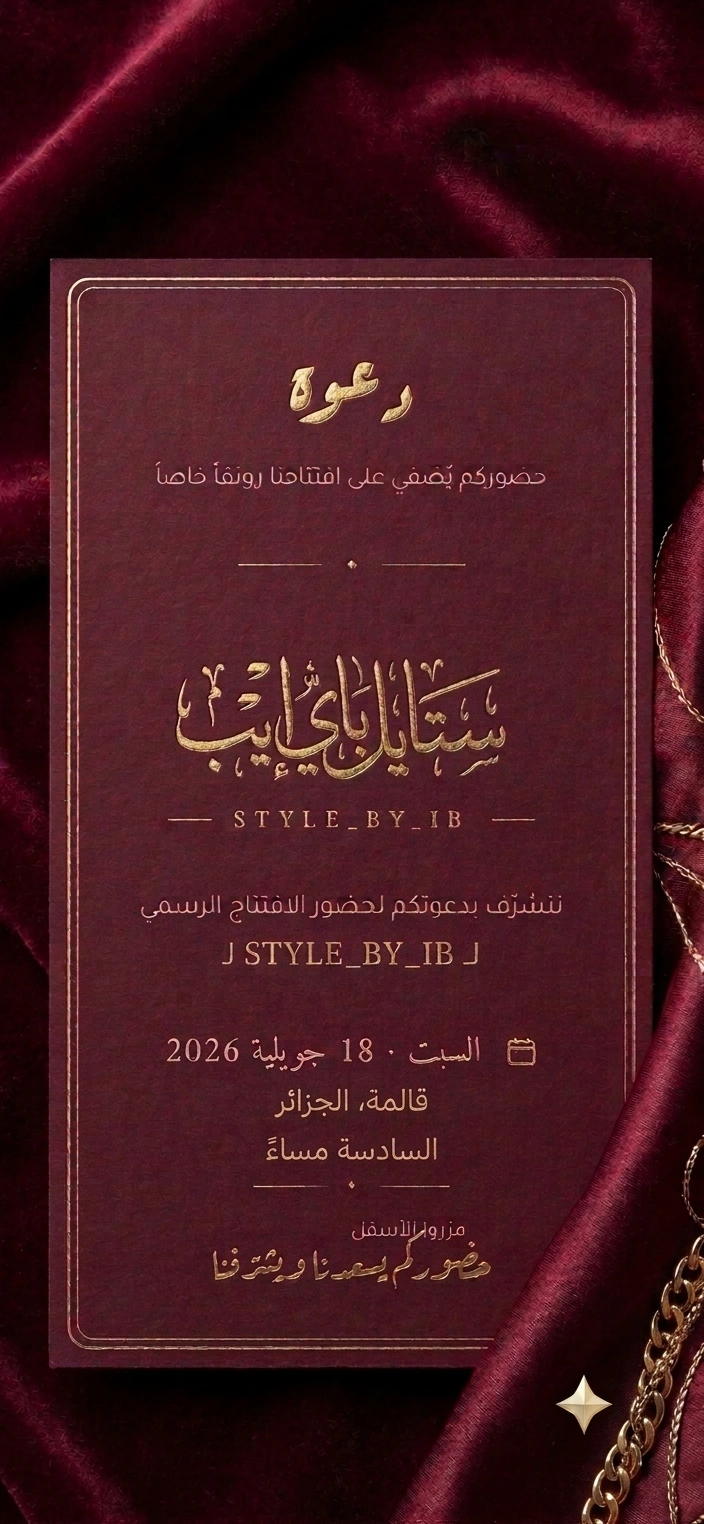
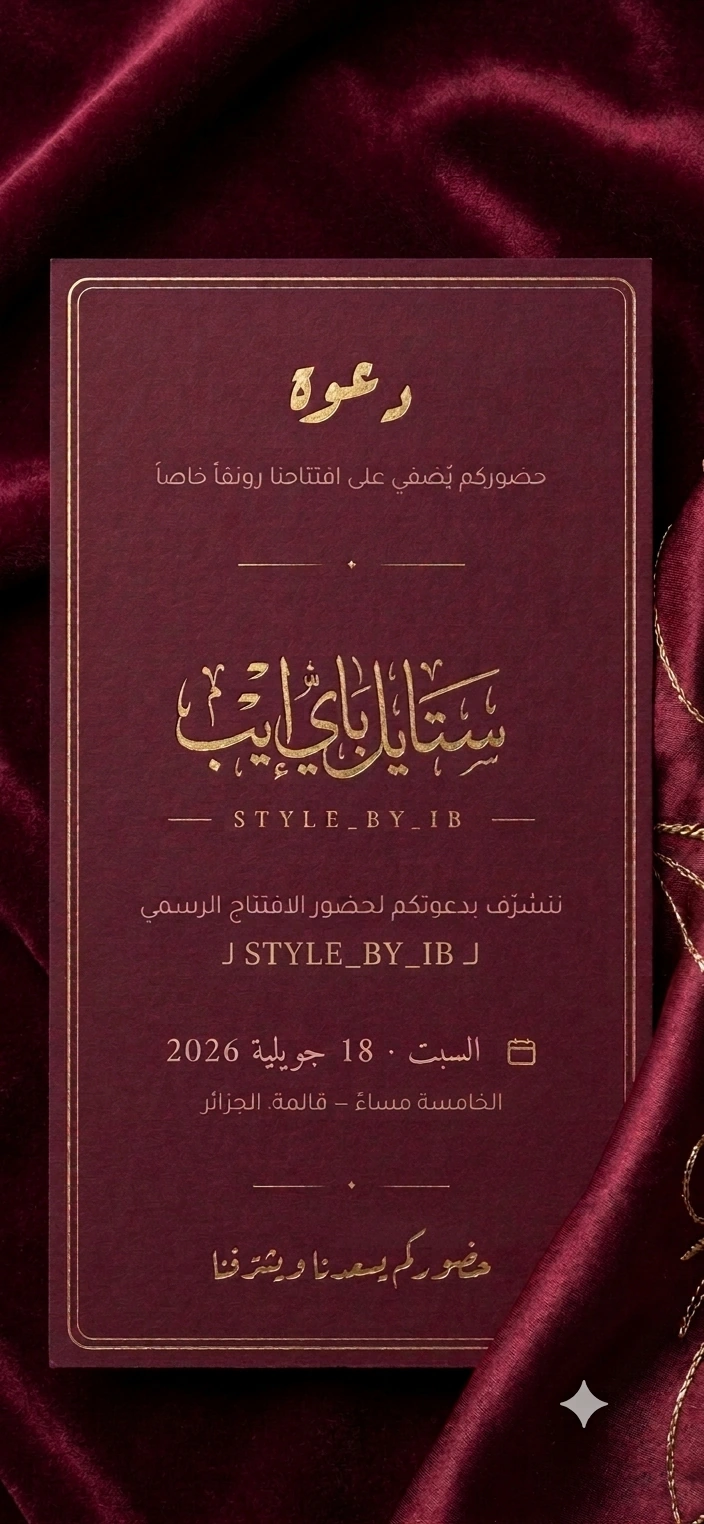
Swap card image; move opening time to 5 PM
Update the reveal poster to the new velvet card (الخامسة مساءً, q94)
and set the countdown target to 2026-07-18T17:00 (5 PM).

Claude-Session: https://claude.ai/code/session_01AekXUfWR2AqzRwuQEMMTBZ

diff --git a/src/config/content.ts b/src/config/content.ts
@@ -123,8 +123,8 @@ export const siteContent: SiteContent = {
   subtitle: 'الافتتاح الكبير',
 
   event: {
-    // ── السبت ١٨ جويلية ٢٠٢٦ — السادسة مساءً ──
-    dateISO: '2026-07-18T18:00:00',
+    // ── السبت ١٨ جويلية ٢٠٢٦ — الخامسة مساءً ──
+    dateISO: '2026-07-18T17:00:00',
   },
 
   invitation: {
@@ -135,7 +135,7 @@ export const siteContent: SiteContent = {
     subtitle: 'للقفاطين والأزياء الراقية',
     dateLabel: '18 جويلية 2026',
     dayLabel: 'السبت',
-    timeLabel: 'السادسة مساءً',
+    timeLabel: 'الخامسة مساءً',
     locationLabel: 'قالمة، الجزائر',
     closing: 'حضوركم يسعدنا ويشرّفنا',
   },
